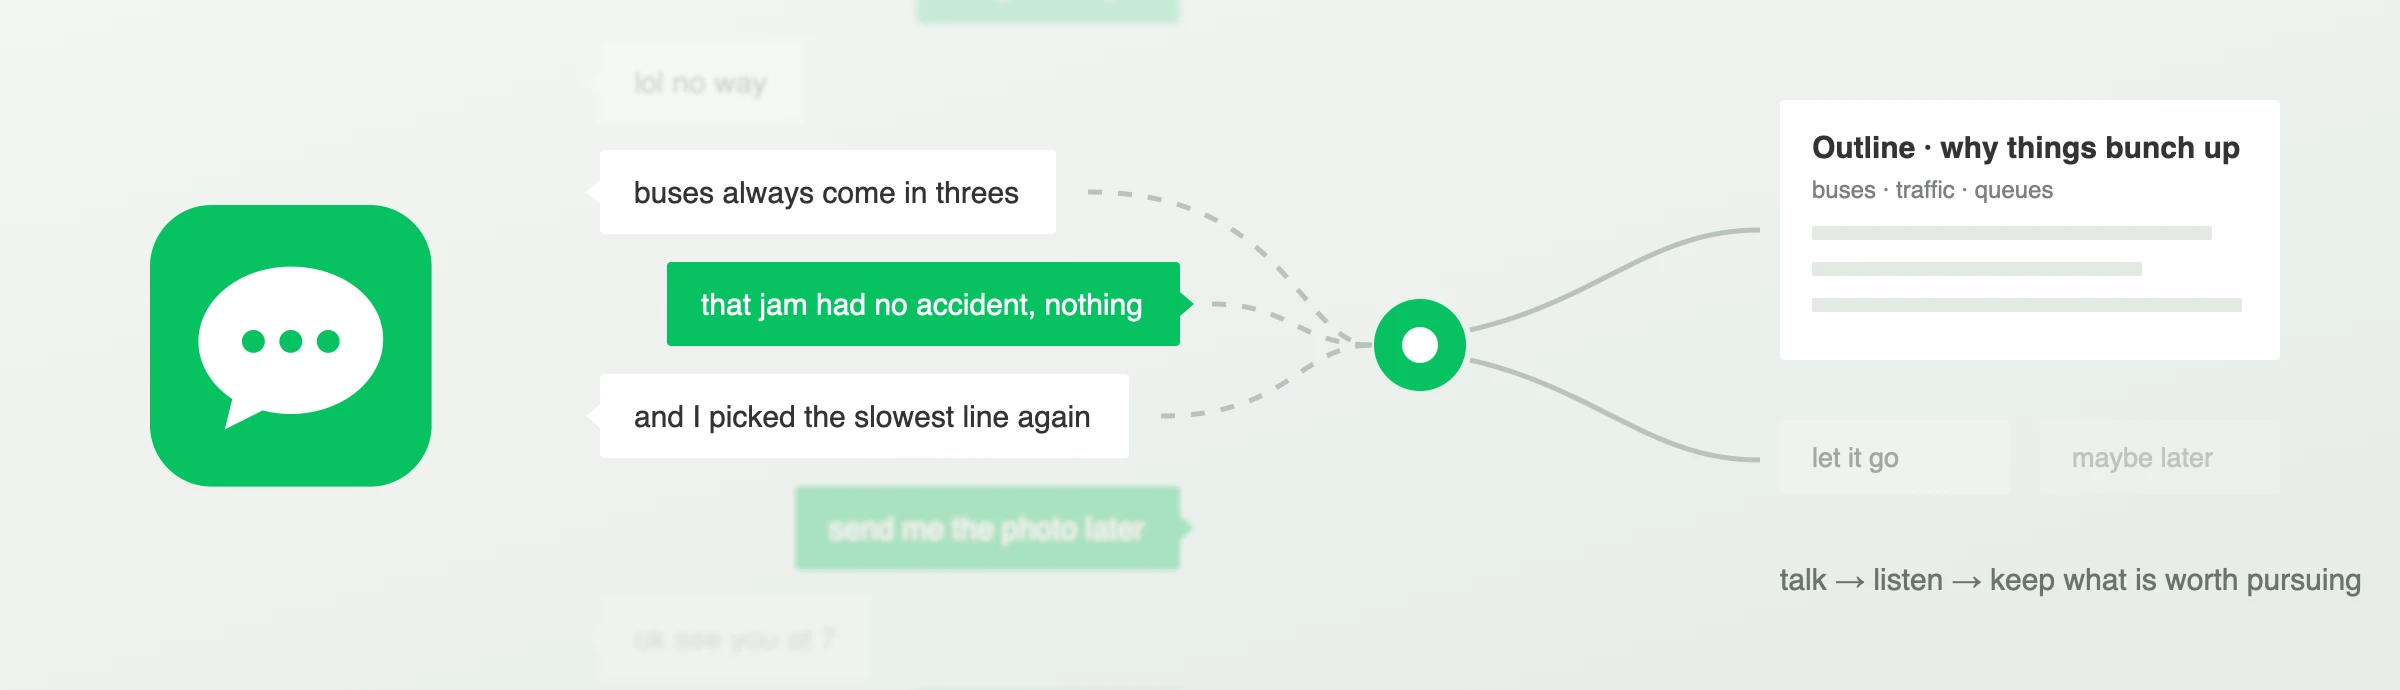
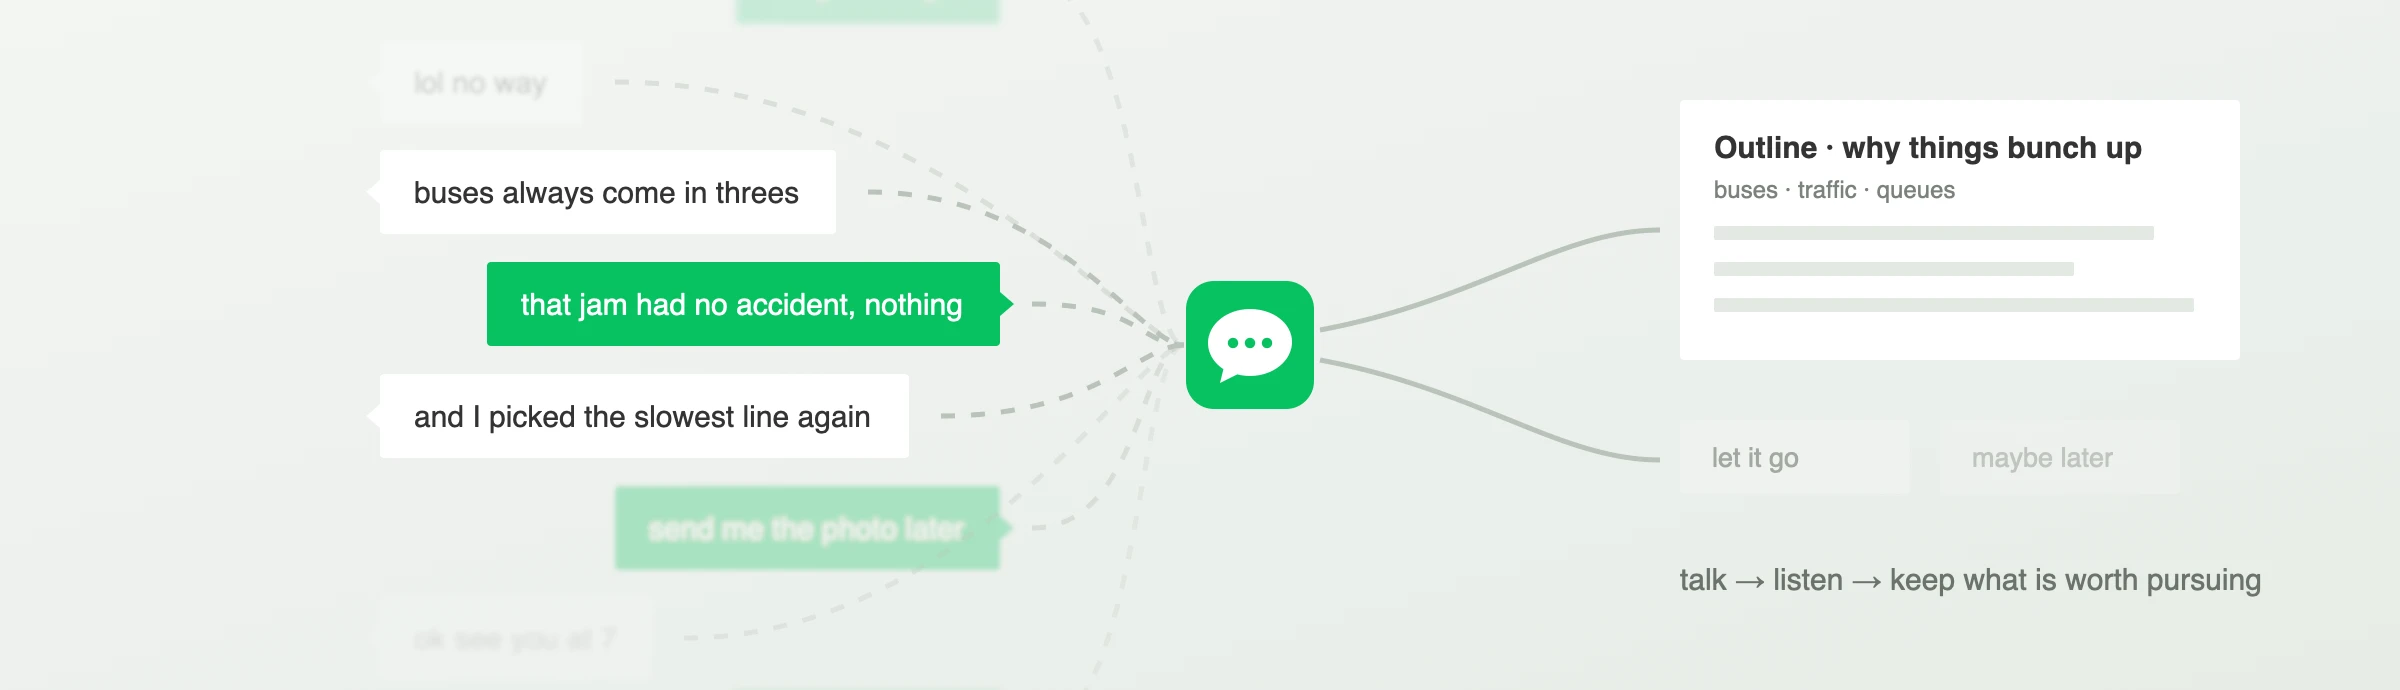
ShellChat card: the mark is the listener; every line of talk connects, the small talk fades
Claude-Session: https://claude.ai/code/session_01D5dD7mmvdjf82zDwHEF5Ev

diff --git a/films/index.html b/films/index.html
@@ -744,7 +744,7 @@
               <figure class="entry__figure">
                 <img class="entry__img" src="/assets/img/research/shellchat.webp"
                      width="2400" height="690" loading="lazy"
-                     alt="A chat between two people, three offhand complaints about buses, traffic and queues flowing into a listener that writes an outline titled why things bunch up, while the rest of the small talk fades.">
+                     alt="A chat between two people: endless small talk, of which three offhand complaints about buses, traffic and queues flow into the ShellChat mark, which writes an outline titled why things bunch up and lets the rest go.">
                 <figcaption>
                   Three complaints in passing &mdash; buses in threes, a jam
                   with no accident, the slowest queue &mdash; turn out to be one

diff --git a/life/index.html b/life/index.html
@@ -744,7 +744,7 @@
               <figure class="entry__figure">
                 <img class="entry__img" src="/assets/img/research/shellchat.webp"
                      width="2400" height="690" loading="lazy"
-                     alt="A chat between two people, three offhand complaints about buses, traffic and queues flowing into a listener that writes an outline titled why things bunch up, while the rest of the small talk fades.">
+                     alt="A chat between two people: endless small talk, of which three offhand complaints about buses, traffic and queues flow into the ShellChat mark, which writes an outline titled why things bunch up and lets the rest go.">
                 <figcaption>
                   Three complaints in passing &mdash; buses in threes, a jam
                   with no accident, the slowest queue &mdash; turn out to be one

diff --git a/photography/index.html b/photography/index.html
@@ -744,7 +744,7 @@
               <figure class="entry__figure">
                 <img class="entry__img" src="/assets/img/research/shellchat.webp"
                      width="2400" height="690" loading="lazy"
-                     alt="A chat between two people, three offhand complaints about buses, traffic and queues flowing into a listener that writes an outline titled why things bunch up, while the rest of the small talk fades.">
+                     alt="A chat between two people: endless small talk, of which three offhand complaints about buses, traffic and queues flow into the ShellChat mark, which writes an outline titled why things bunch up and lets the rest go.">
                 <figcaption>
                   Three complaints in passing &mdash; buses in threes, a jam
                   with no accident, the slowest queue &mdash; turn out to be one

diff --git a/research/index.html b/research/index.html
@@ -744,7 +744,7 @@
               <figure class="entry__figure">
                 <img class="entry__img" src="/assets/img/research/shellchat.webp"
                      width="2400" height="690" loading="lazy"
-                     alt="A chat between two people, three offhand complaints about buses, traffic and queues flowing into a listener that writes an outline titled why things bunch up, while the rest of the small talk fades.">
+                     alt="A chat between two people: endless small talk, of which three offhand complaints about buses, traffic and queues flow into the ShellChat mark, which writes an outline titled why things bunch up and lets the rest go.">
                 <figcaption>
                   Three complaints in passing &mdash; buses in threes, a jam
                   with no accident, the slowest queue &mdash; turn out to be one

diff --git a/writing/index.html b/writing/index.html
@@ -744,7 +744,7 @@
               <figure class="entry__figure">
                 <img class="entry__img" src="/assets/img/research/shellchat.webp"
                      width="2400" height="690" loading="lazy"
-                     alt="A chat between two people, three offhand complaints about buses, traffic and queues flowing into a listener that writes an outline titled why things bunch up, while the rest of the small talk fades.">
+                     alt="A chat between two people: endless small talk, of which three offhand complaints about buses, traffic and queues flow into the ShellChat mark, which writes an outline titled why things bunch up and lets the rest go.">
                 <figcaption>
                   Three complaints in passing &mdash; buses in threes, a jam
                   with no accident, the slowest queue &mdash; turn out to be one

diff --git a/index.html b/index.html
@@ -744,7 +744,7 @@
               <figure class="entry__figure">
                 <img class="entry__img" src="assets/img/research/shellchat.webp"
                      width="2400" height="690" loading="lazy"
-                     alt="A chat between two people, three offhand complaints about buses, traffic and queues flowing into a listener that writes an outline titled why things bunch up, while the rest of the small talk fades.">
+                     alt="A chat between two people: endless small talk, of which three offhand complaints about buses, traffic and queues flow into the ShellChat mark, which writes an outline titled why things bunch up and lets the rest go.">
                 <figcaption>
                   Three complaints in passing &mdash; buses in threes, a jam
                   with no accident, the slowest queue &mdash; turn out to be one
